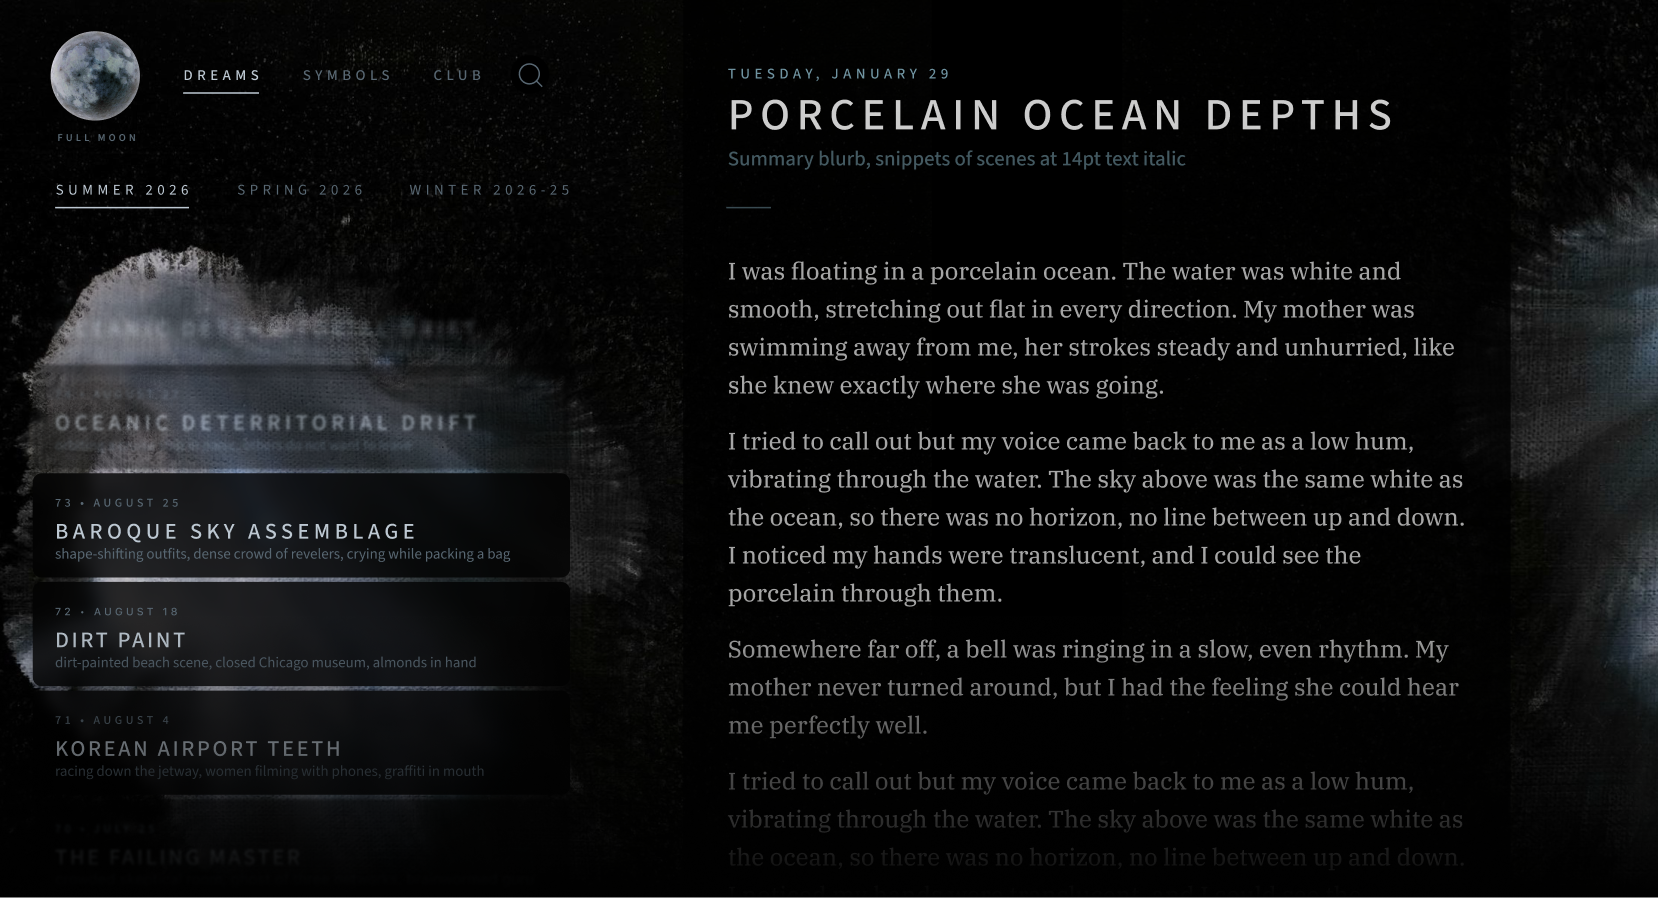
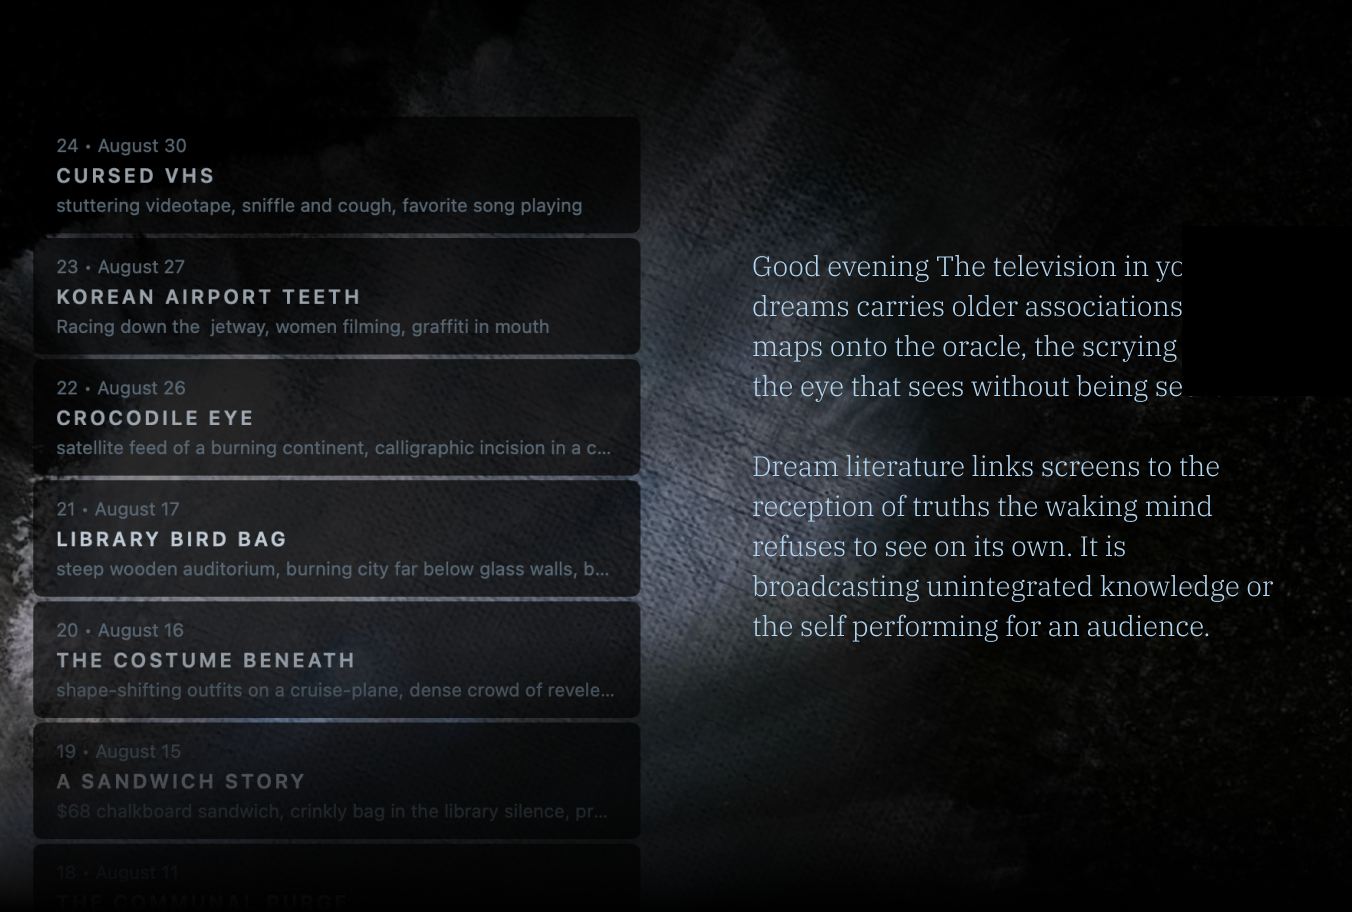
Gallery: two shots in one rounded glass card, caption columns beneath

diff --git a/index.html b/index.html
@@ -242,46 +242,58 @@
 
     /* ---------- Slider ---------- */
 
-    /* A horizontal scroll-snap strip on a glass band: three phone
-       panels and the Mac. Only the band is glass — the shots sit
-       opaque on top. */
+    /* One glass card holding the phone and the Mac, captions in a
+       row of four columns beneath. Only the card is glass — the
+       shots sit opaque on top, bottoms cut flush (no bottom radius),
+       emerging from the panel rather than floating in it. */
     .gallery {
-      margin-top: 58px;
-      padding: 34px 0 30px;
+      width: fit-content;
+      max-width: min(92%, 1500px);
+      margin: 58px auto 0;
+      padding: 34px 40px 36px;
       background: rgba(255, 255, 255, 0.1);
       backdrop-filter: blur(15px);
       -webkit-backdrop-filter: blur(15px);
+      border-radius: 20px;
     }
     .shots {
       display: flex;
       align-items: flex-start;
       gap: 28px;
       overflow-x: auto;
-      scroll-snap-type: x proximity;
-      /* Center the full strip when it fits; gutter-pad when it scrolls. */
-      padding: 0 max(24px, calc((100vw - 1765px) / 2));
       scrollbar-width: none;
     }
     .shots::-webkit-scrollbar { display: none; }
     .shot {
       flex: 0 0 auto;
-      scroll-snap-align: center;
       margin: 0;
     }
     .shot img {
       display: block;
       height: auto;
-      border-radius: 10px;
+      border-radius: 10px 10px 0 0;
     }
     .shot.phone img { width: min(312px, 78vw); }
-    .shot.desktop img { width: min(829px, 92vw); }
-    .shot figcaption {
-      font-family: var(--serif);
-      font-size: 13px;
-      line-height: 1.5;
-      color: var(--bright);
-      max-width: 260px;
-      margin-top: 15px;
+    .shot.desktop img { width: min(676px, 92vw); }
+    /* Four fixed text columns; the gaps take up the slack. */
+    .captions {
+      display: grid;
+      grid-template-columns: repeat(4, 180px);
+      justify-content: space-between;
+      gap: 24px;
+      margin-top: 40px;
+    }
+    .captions p {
+      font-family: var(--sans);
+      font-size: 14px;
+      line-height: 1.4;
+      color: var(--body);
+    }
+    @media (max-width: 900px) {
+      .captions { grid-template-columns: repeat(2, minmax(150px, 180px)); }
+    }
+    @media (max-width: 420px) {
+      .captions { grid-template-columns: 1fr; }
     }
 
     /* ---------- Prose ---------- */
@@ -367,26 +379,22 @@
   </header>
 
 
-  <!-- ---------------- Slider ---------------- -->
-  <!-- James's exported comps: full-res webp, corners + foot fades in CSS. -->
+  <!-- ---------------- Gallery ---------------- -->
+  <!-- James's exported comps: full-res webp, corners in CSS. -->
   <section class="gallery" aria-label="Screenshots">
     <div class="shots" id="shots">
       <figure class="shot phone">
-        <img src="img/product/dc1.webp" alt="Dream Club on iPhone: the journal" loading="lazy">
-        <figcaption>Log your dreams while half-awake via text or voice.</figcaption>
-      </figure>
-      <figure class="shot phone">
-        <img src="img/product/dc2.webp" alt="Dream Club on iPhone: a Deleuzian analysis" loading="lazy">
-        <figcaption>Analyze your dreams through three lenses: Jungian, Lacanian, and Deleuzian.</figcaption>
-      </figure>
-      <figure class="shot phone">
-        <img src="img/product/dc3.webp" alt="Dream Club on iPhone: symbols and themes" loading="lazy">
-        <figcaption>Every dream&rsquo;s key images become part of a personal codex of symbols.</figcaption>
+        <img src="img/product/dc1.webp" alt="Dream Club on iPhone: the symbol codex" loading="lazy">
       </figure>
       <figure class="shot desktop">
-        <img src="img/product/dcmac1.webp" alt="Dream Club on Mac: reading a dream" loading="lazy">
-        <figcaption>A companion desktop app for organizing, searching, and editing.</figcaption>
+        <img src="img/product/dcmac1.webp" alt="Dream Club on Mac: the journal and a symbol reading" loading="lazy">
       </figure>
+    </div>
+    <div class="captions">
+      <p>Log your dreams while half-awake via text or voice.</p>
+      <p>Build a codex of the places, people, and ideas you visit while asleep.</p>
+      <p>Analyze your dreams through three lenses: Jungian, Lacanian, and Deleuzian.</p>
+      <p>A handsome companion desktop app for organizing, searching, and editing.</p>
     </div>
   </section>
 
